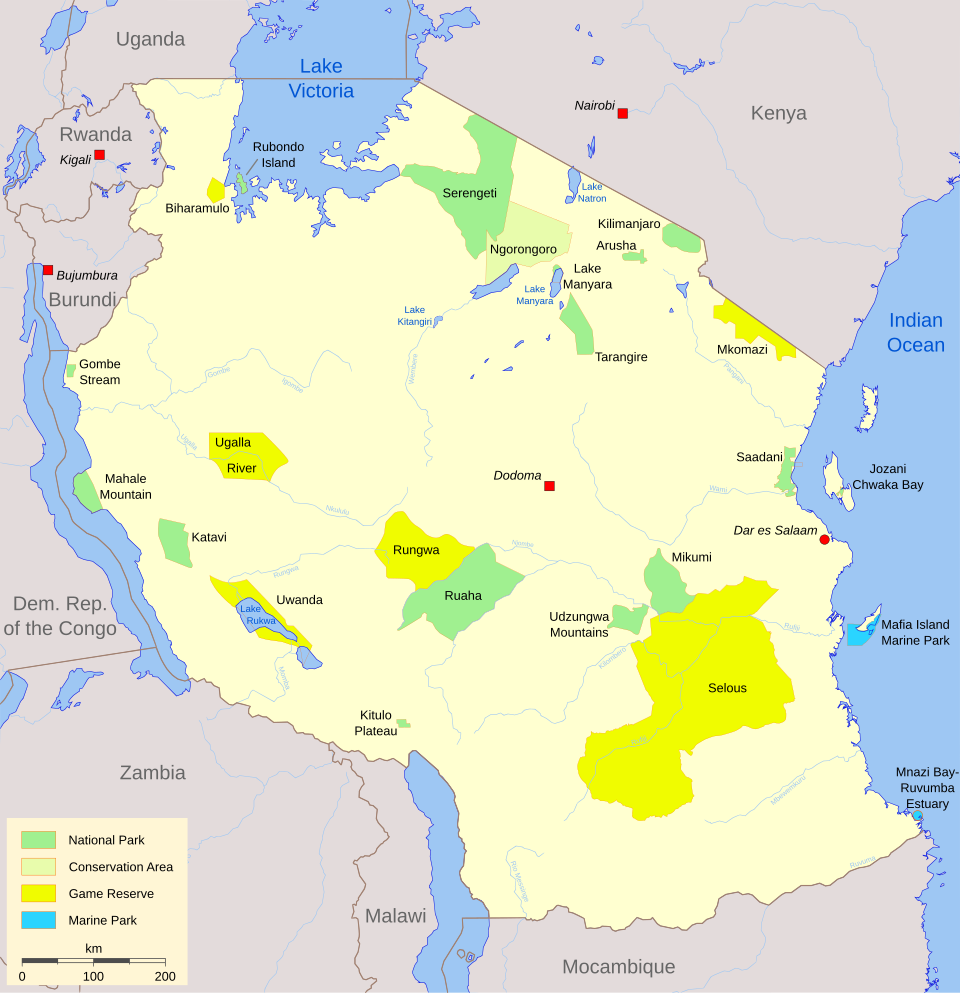
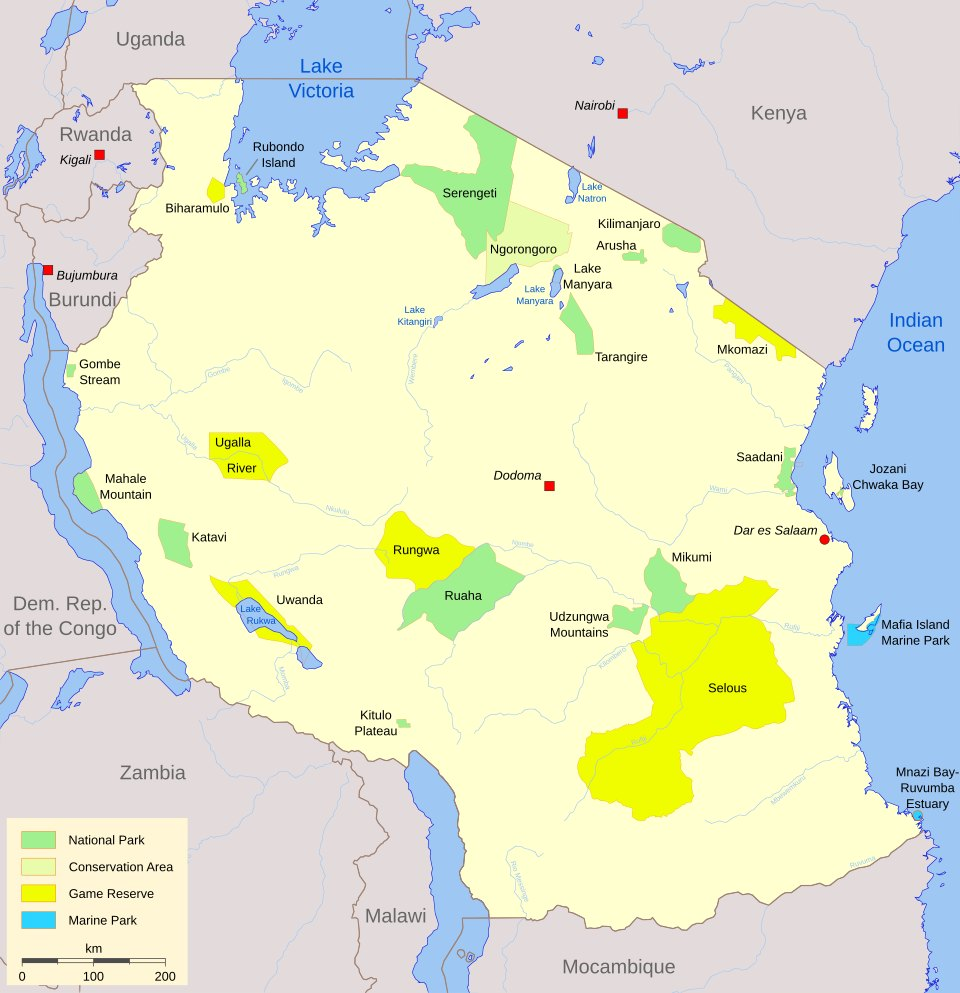
QA the scene plates: every still now has a real photo.
Cached images no longer sit under a loading veil, reconstruction labels stay on generated plates only, and Springbok plus Grand Canyon are local JPEGs.

diff --git a/src/lib/game/extra-locations.ts b/src/lib/game/extra-locations.ts
@@ -45,7 +45,7 @@ export const EXTRA_LOCATIONS: GeoLocation[] = [
     tags: ["coastal", "beach", "wildlife"],
     attribution: "Cinematic reconstruction inspired by Boulders Beach. Not a live street photograph. Coordinates from Wikipedia.",
     sourceUrl: "https://en.wikipedia.org/wiki/Boulders_Beach",
-    sceneKind: "generated-reconstruction",
+    sceneKind: "wikimedia",
       }),
   loc({
     id: "loc_43",
@@ -59,7 +59,7 @@ export const EXTRA_LOCATIONS: GeoLocation[] = [
     tags: ["coastal", "mountain", "road"],
     attribution: "Cinematic reconstruction inspired by Chapman’s Peak. Not a live street photograph. Coordinates from Wikipedia.",
     sourceUrl: "https://en.wikipedia.org/wiki/Chapman%27s_Peak",
-    sceneKind: "generated-reconstruction",
+    sceneKind: "wikimedia",
       }),
   loc({
     id: "loc_44",
@@ -133,7 +133,7 @@ export const EXTRA_LOCATIONS: GeoLocation[] = [
     tags: ["stadium", "urban", "iconic"],
     attribution: "Cinematic reconstruction inspired by Moses Mabhida Stadium. Not a live street photograph. Coordinates from Wikipedia.",
     sourceUrl: "https://en.wikipedia.org/wiki/Moses_Mabhida_Stadium",
-    sceneKind: "generated-reconstruction",
+    sceneKind: "wikimedia",
       }),
   loc({
     id: "loc_49",
@@ -147,7 +147,7 @@ export const EXTRA_LOCATIONS: GeoLocation[] = [
     tags: ["civic", "architecture", "urban"],
     attribution: "Cinematic reconstruction inspired by Pietermaritzburg. Not a live street photograph. Coordinates from Wikipedia.",
     sourceUrl: "https://en.wikipedia.org/wiki/Pietermaritzburg",
-    sceneKind: "generated-reconstruction",
+    sceneKind: "wikimedia",
       }),
   loc({
     id: "loc_50",
@@ -176,7 +176,7 @@ export const EXTRA_LOCATIONS: GeoLocation[] = [
     tags: ["tower", "urban", "skyline", "iconic"],
     attribution: "Cinematic reconstruction inspired by Hillbrow Tower. Not a live street photograph. Coordinates from Wikipedia.",
     sourceUrl: "https://en.wikipedia.org/wiki/Hillbrow_Tower",
-    sceneKind: "generated-reconstruction",
+    sceneKind: "wikimedia",
   }),
   loc({
     id: "loc_52",
@@ -190,7 +190,7 @@ export const EXTRA_LOCATIONS: GeoLocation[] = [
     tags: ["monument", "historic", "architecture"],
     attribution: "Cinematic reconstruction inspired by Voortrekker Monument. Not a live street photograph. Coordinates from Wikipedia.",
     sourceUrl: "https://en.wikipedia.org/wiki/Voortrekker_Monument",
-    sceneKind: "generated-reconstruction",
+    sceneKind: "wikimedia",
       }),
   loc({
     id: "loc_53",
@@ -204,7 +204,7 @@ export const EXTRA_LOCATIONS: GeoLocation[] = [
     tags: ["urban", "historic", "street"],
     attribution: "Cinematic reconstruction inspired by Vilakazi Street. Not a live street photograph. Coordinates from Wikipedia.",
     sourceUrl: "https://en.wikipedia.org/wiki/Orlando,_Soweto",
-    sceneKind: "generated-reconstruction",
+    sceneKind: "wikimedia",
       }),
   loc({
     id: "loc_54",
@@ -218,7 +218,7 @@ export const EXTRA_LOCATIONS: GeoLocation[] = [
     tags: ["canyon", "escarpment", "landscape"],
     attribution: "Cinematic reconstruction inspired by Blyde River Canyon. Not a live street photograph. Coordinates from Wikipedia.",
     sourceUrl: "https://en.wikipedia.org/wiki/Blyde_River_Canyon",
-    sceneKind: "generated-reconstruction",
+    sceneKind: "wikimedia",
       }),
   loc({
     id: "loc_55",
@@ -247,7 +247,7 @@ export const EXTRA_LOCATIONS: GeoLocation[] = [
     tags: ["museum", "architecture", "urban", "iconic"],
     attribution: "Cinematic reconstruction inspired by Rijksmuseum. Not a live street photograph. Coordinates from Wikipedia.",
     sourceUrl: "https://en.wikipedia.org/wiki/Rijksmuseum",
-    sceneKind: "generated-reconstruction",
+    sceneKind: "wikimedia",
       }),
   loc({
     id: "loc_57",
@@ -261,7 +261,7 @@ export const EXTRA_LOCATIONS: GeoLocation[] = [
     tags: ["bridge", "canal", "urban"],
     attribution: "Cinematic reconstruction inspired by Magere Brug. Not a live street photograph. Coordinates from Wikipedia.",
     sourceUrl: "https://en.wikipedia.org/wiki/Magere_Brug",
-    sceneKind: "generated-reconstruction",
+    sceneKind: "wikimedia",
       }),
   loc({
     id: "loc_58",
@@ -275,7 +275,7 @@ export const EXTRA_LOCATIONS: GeoLocation[] = [
     tags: ["historic", "market", "urban"],
     attribution: "Cinematic reconstruction inspired by Alkmaar. Not a live street photograph. Coordinates from Wikipedia.",
     sourceUrl: "https://en.wikipedia.org/wiki/Alkmaar",
-    sceneKind: "generated-reconstruction",
+    sceneKind: "wikimedia",
       }),
   loc({
     id: "loc_59",
@@ -289,7 +289,7 @@ export const EXTRA_LOCATIONS: GeoLocation[] = [
     tags: ["harbor", "village", "coastal"],
     attribution: "Cinematic reconstruction inspired by Volendam. Not a live street photograph. Coordinates from Wikipedia.",
     sourceUrl: "https://en.wikipedia.org/wiki/Volendam",
-    sceneKind: "generated-reconstruction",
+    sceneKind: "wikimedia",
       }),
   loc({
     id: "loc_60",
@@ -318,7 +318,7 @@ export const EXTRA_LOCATIONS: GeoLocation[] = [
     tags: ["market", "historic", "urban"],
     attribution: "Cinematic reconstruction inspired by Gouda, South Holland. Not a live street photograph. Coordinates from Wikipedia.",
     sourceUrl: "https://en.wikipedia.org/wiki/Gouda,_South_Holland",
-    sceneKind: "generated-reconstruction",
+    sceneKind: "wikimedia",
       }),
   loc({
     id: "loc_62",
@@ -332,7 +332,7 @@ export const EXTRA_LOCATIONS: GeoLocation[] = [
     tags: ["church", "historic", "urban"],
     attribution: "Cinematic reconstruction inspired by Grote Kerk (Breda). Not a live street photograph. Coordinates from Wikipedia.",
     sourceUrl: "https://en.wikipedia.org/wiki/Grote_Kerk_(Breda)",
-    sceneKind: "generated-reconstruction",
+    sceneKind: "wikimedia",
       }),
   loc({
     id: "loc_63",
@@ -361,7 +361,7 @@ export const EXTRA_LOCATIONS: GeoLocation[] = [
     tags: ["bridge", "river", "urban"],
     attribution: "Cinematic reconstruction inspired by John Frost Bridge. Not a live street photograph. Coordinates from Wikipedia.",
     sourceUrl: "https://en.wikipedia.org/wiki/John_Frost_Bridge",
-    sceneKind: "generated-reconstruction",
+    sceneKind: "wikimedia",
       }),
   loc({
     id: "loc_65",
@@ -375,7 +375,7 @@ export const EXTRA_LOCATIONS: GeoLocation[] = [
     tags: ["gate", "historic", "water"],
     attribution: "Cinematic reconstruction inspired by Koppelpoort. Not a live street photograph. Coordinates from Wikipedia.",
     sourceUrl: "https://en.wikipedia.org/wiki/Koppelpoort",
-    sceneKind: "generated-reconstruction",
+    sceneKind: "wikimedia",
       }),
   loc({
     id: "loc_66",
@@ -404,7 +404,7 @@ export const EXTRA_LOCATIONS: GeoLocation[] = [
     tags: ["castle", "historic", "water"],
     attribution: "Cinematic reconstruction inspired by Muiderslot. Not a live street photograph. Coordinates from Wikipedia.",
     sourceUrl: "https://en.wikipedia.org/wiki/Muiderslot",
-    sceneKind: "generated-reconstruction",
+    sceneKind: "wikimedia",
       }),
   loc({
     id: "loc_68",
@@ -418,7 +418,7 @@ export const EXTRA_LOCATIONS: GeoLocation[] = [
     tags: ["tower", "historic", "urban"],
     attribution: "Cinematic reconstruction inspired by Oldehove. Not a live street photograph. Coordinates from Wikipedia.",
     sourceUrl: "https://en.wikipedia.org/wiki/Oldehove_(Leeuwarden)",
-    sceneKind: "generated-reconstruction",
+    sceneKind: "wikimedia",
       }),
   loc({
     id: "loc_69",

diff --git a/src/lib/game/locations.ts b/src/lib/game/locations.ts
@@ -95,10 +95,10 @@ export const LAUNCH_LOCATIONS: GeoLocation[] = [
     difficulty: 3,
     tags: ["coastal", "urban", "promenade", "beach"],
     attribution:
-      "Cinematic reconstruction inspired by Durban's Golden Mile / North Beach. Not a live street photograph. Coordinates from Wikipedia: North Beach, Durban.",
+      "Photo: Wikimedia Commons, CC BY-SA. Wikipedia: North Beach, Durban.",
     sourceUrl: "https://en.wikipedia.org/wiki/North_Beach,_Durban",
-    sceneKind: "generated-reconstruction",
-    panoramaProvider: "generated",
+    sceneKind: "wikimedia",
+    panoramaProvider: "wikimedia",
   }),
   loc({
     id: "loc_06",
@@ -246,10 +246,10 @@ export const LAUNCH_LOCATIONS: GeoLocation[] = [
     difficulty: 4,
     tags: ["coastal", "civic", "historic", "urban"],
     attribution:
-      "Cinematic reconstruction inspired by the Donkin Reserve pyramid and lighthouse, Gqeberha. Not a live street photograph.",
+      "Photo: Wikimedia Commons, CC BY-SA. Wikipedia: Gqeberha.",
     sourceUrl: "https://en.wikipedia.org/wiki/Gqeberha",
-    sceneKind: "generated-reconstruction",
-    panoramaProvider: "generated",
+    sceneKind: "wikimedia",
+    panoramaProvider: "wikimedia",
   }),
   loc({
     id: "loc_16",
@@ -322,10 +322,10 @@ export const LAUNCH_LOCATIONS: GeoLocation[] = [
     difficulty: 4,
     tags: ["modern", "industrial", "urban", "infrastructure"],
     attribution:
-      "Cinematic reconstruction inspired by Eindhoven's Lichttoren / Strijp-S. Not a live street photograph.",
+      "Photo: Wikimedia Commons, CC BY-SA. Wikipedia: Eindhoven.",
     sourceUrl: "https://en.wikipedia.org/wiki/Eindhoven",
-    sceneKind: "generated-reconstruction",
-    panoramaProvider: "generated",
+    sceneKind: "wikimedia",
+    panoramaProvider: "wikimedia",
   }),
   loc({
     id: "loc_21",
@@ -338,10 +338,10 @@ export const LAUNCH_LOCATIONS: GeoLocation[] = [
     difficulty: 3,
     tags: ["historic", "plaza", "urban"],
     attribution:
-      "Cinematic reconstruction inspired by Groningen's Grote Markt and Martinitoren. Not a live street photograph.",
+      "Photo: Wikimedia Commons, CC BY-SA. Wikipedia: Grote Markt (Groningen).",
     sourceUrl: "https://en.wikipedia.org/wiki/Grote_Markt_(Groningen)",
-    sceneKind: "generated-reconstruction",
-    panoramaProvider: "generated",
+    sceneKind: "wikimedia",
+    panoramaProvider: "wikimedia",
   }),
   loc({
     id: "loc_22",

diff --git a/src/components/game/match-app.tsx b/src/components/game/match-app.tsx
@@ -697,7 +697,7 @@ export function MatchApp({
             <p className="text-sm text-muted">Loading scene</p>
           </div>
         ) : null}
-        <div className="pointer-events-none absolute inset-0 bg-[linear-gradient(180deg,rgba(9,9,11,0.45)_0%,transparent_26%,transparent_62%,rgba(9,9,11,0.5)_100%)]" />
+        <div className="pointer-events-none absolute inset-0 bg-[linear-gradient(180deg,rgba(9,9,11,0.28)_0%,transparent_22%,transparent_72%,rgba(9,9,11,0.32)_100%)]" />
       </div>
 
       <header className="relative z-20 flex items-start justify-between gap-3 px-4 py-3 pt-[max(0.75rem,env(safe-area-inset-top))]">
@@ -803,7 +803,7 @@ export function MatchApp({
         />
       )}
 
-      {loc && loc.sceneKind === "generated-reconstruction" && !showingReveal && (
+      {loc && loc.sceneUrl.startsWith("/generated/") && !showingReveal && (
         <p className="pointer-events-none absolute left-3 bottom-[calc(var(--atlas-map-h)+0.75rem)] z-10 max-w-[52%] text-[10px] leading-snug text-subtle max-sm:max-w-[70%]">
           Reconstruction · not a live street photo
         </p>

diff --git a/src/lib/game/scene.ts b/src/lib/game/scene.ts
@@ -59,7 +59,7 @@ async function pageImage(page: string): Promise<string | null> {
     redirects: "1",
     prop: "pageimages",
     piprop: "thumbnail",
-    pithumbsize: "1280",
+    pithumbsize: "960",
     titles: page,
   });
   return firstThumb(data);
@@ -79,7 +79,7 @@ export async function resolveWikiImage(sourceUrl?: string, title?: string): Prom
     gsrlimit: "1",
     prop: "pageimages",
     piprop: "thumbnail",
-    pithumbsize: "1280",
+    pithumbsize: "960",
   });
   return firstThumb(data);
 }

diff --git a/src/components/game/scene-explorer.tsx b/src/components/game/scene-explorer.tsx
@@ -106,6 +106,14 @@ export function SceneExplorer({
   }, [src, reducedMotion, fallbacks?.join("|"), sourceUrl, title]);
 
   useEffect(() => {
+    const img = imgRef.current;
+    if (img?.complete && img.naturalWidth > 0) {
+      setFailed(false);
+      onReady?.();
+    }
+  }, [current]);
+
+  useEffect(() => {
     const host = hostRef.current;
     if (!host) return;
     let frame = 0;
